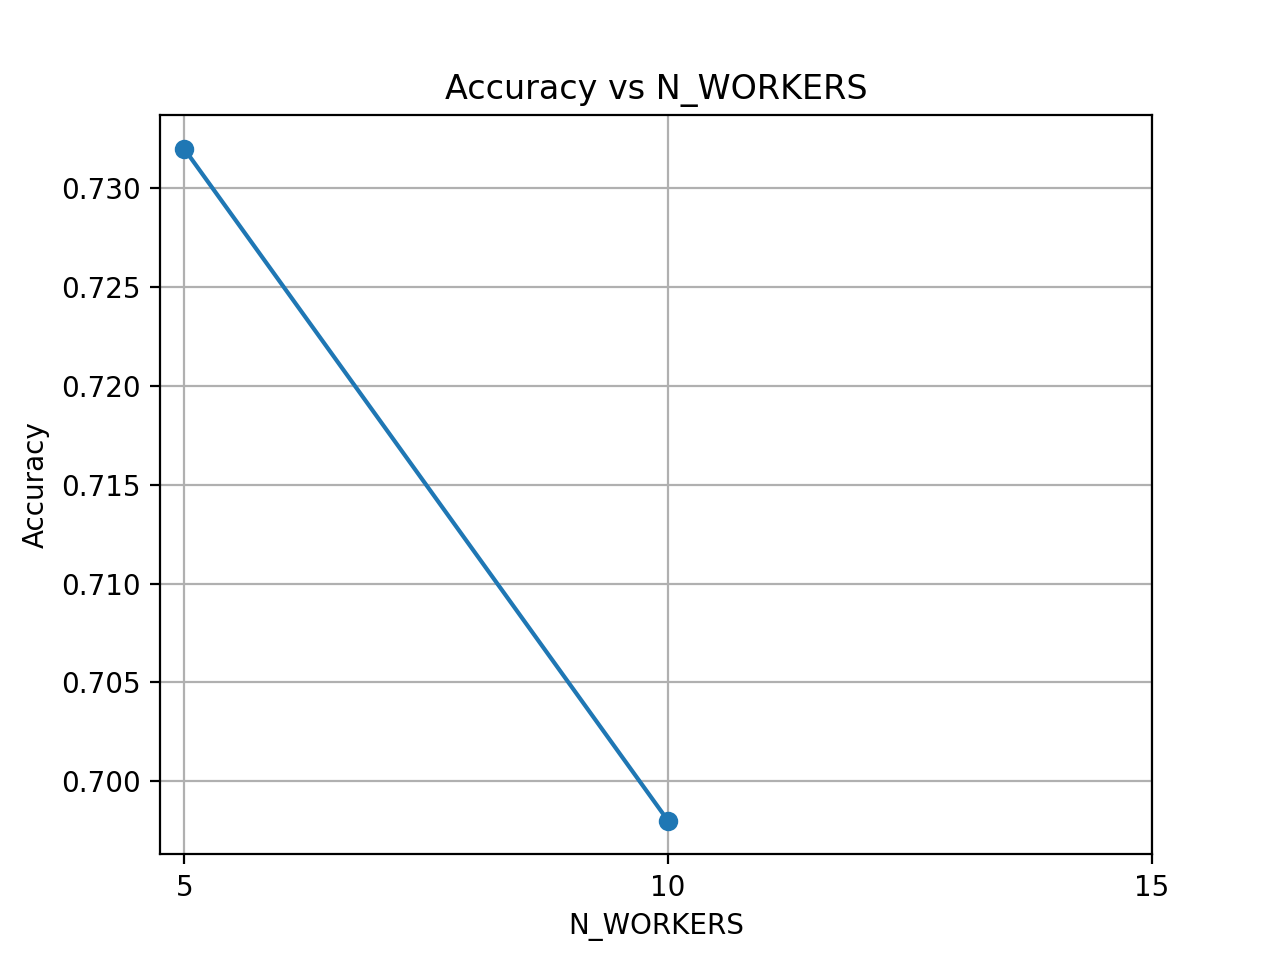
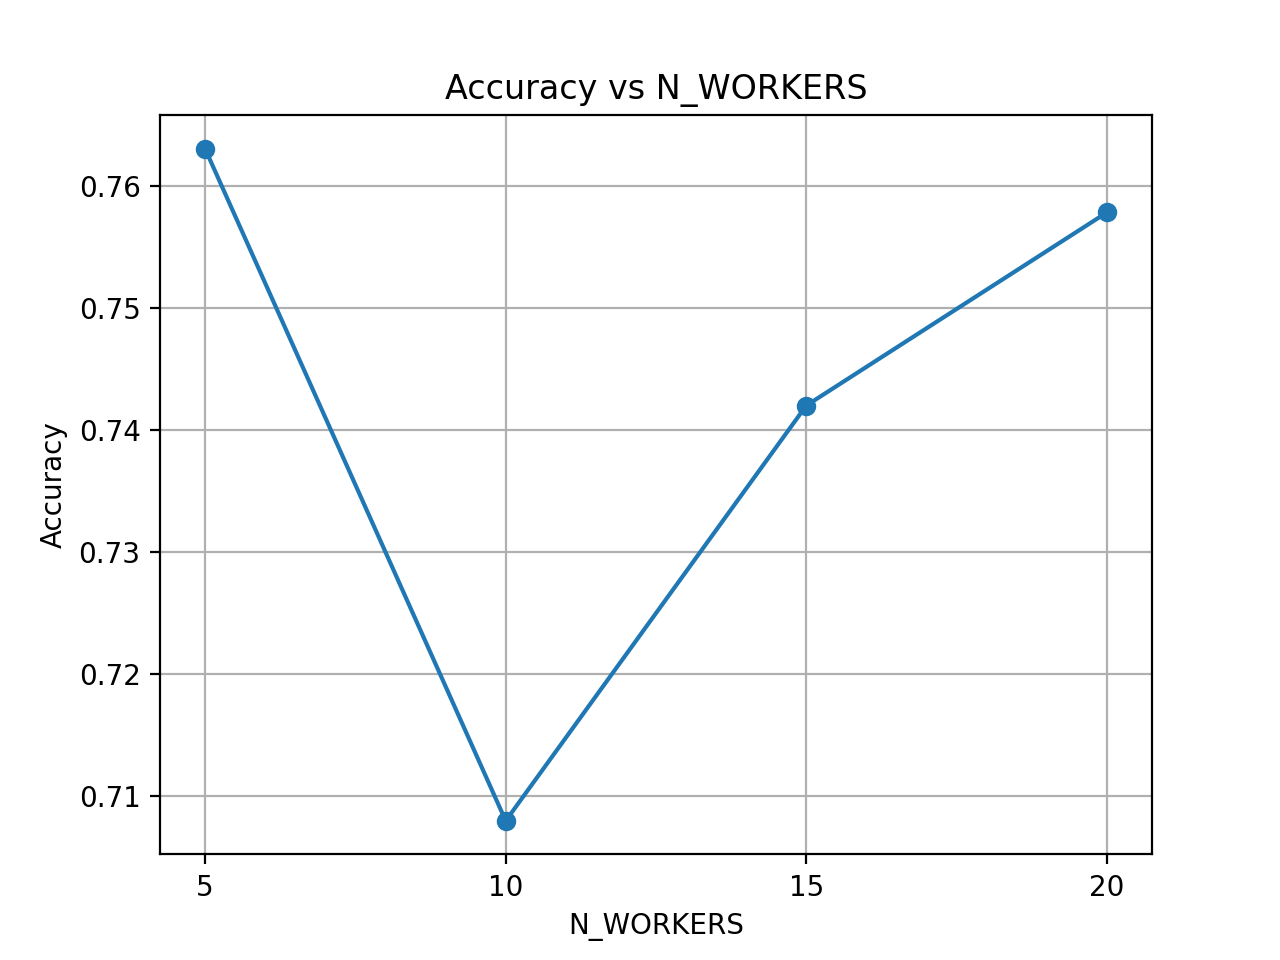
VV

diff --git a/java/src/main/java/pso/CoordinatorProcessor.java b/java/src/main/java/pso/CoordinatorProcessor.java
@@ -33,7 +33,8 @@ import java.time.Duration;
 
 import utils.*;
 import state.*;
-import message.*; 
+import message.data_message.*; 
+import message.weights_message.*; 
 
 public class CoordinatorProcessor implements Processor<String, WeightsMessage, String, WeightsMessage> {
     private ProcessorContext<String, WeightsMessage> context;

diff --git a/java/src/main/java/pso/WorkerTransformer.java b/java/src/main/java/pso/WorkerTransformer.java
@@ -22,7 +22,8 @@ import java.util.Arrays;
 
 import utils.*;
 import state.*;
-import message.*; 
+import message.data_message.*; 
+import message.weights_message.*; 
 
 public class WorkerTransformer implements Transformer<String, DataMessage, KeyValue<String, WeightsMessage>> {
 

diff --git a/java/src/main/java/pso/Coordinator.java b/java/src/main/java/pso/Coordinator.java
@@ -34,7 +34,8 @@ import org.deeplearning4j.nn.multilayer.MultiLayerNetwork;
 
 import utils.*; 
 import state.*; 
-import message.*; 
+import message.data_message.*; 
+import message.weights_message.*; 
 
 public class Coordinator implements Runnable {
 

diff --git a/run_experiments.py b/run_experiments.py
@@ -7,9 +7,9 @@ from pathlib import Path
 
 import matplotlib.pyplot as plt
 
-# WORKERS_LIST = [5, 10, 15, 20]
+WORKERS_LIST = [5, 10, 15, 20]
 # WORKERS_LIST = [5, 10, 15]
-WORKERS_LIST = [15]
+# WORKERS_LIST = [15]
 
 RUN_SCRIPT = "./run_streams.sh"
 

diff --git a/java/src/main/java/pso/Worker.java b/java/src/main/java/pso/Worker.java
@@ -26,7 +26,8 @@ import java.util.concurrent.CountDownLatch;
 
 import utils.*;
 import state.*;
-import message.*; 
+import message.data_message.*; 
+import message.weights_message.*; 
 
 public class Worker implements Runnable {
 

diff --git a/java/src/main/java/message/weights_message/WeightsMessage.java b/java/src/main/java/message/weights_message/WeightsMessage.java
@@ -1,8 +1,5 @@
 
-package message;
-
-
-import java.util.List;
+package message.weights_message;
 
 public class WeightsMessage {
     public int idWorker;

diff --git a/java/src/main/java/message/data_message/DataMessage.java b/java/src/main/java/message/data_message/DataMessage.java
@@ -1,7 +1,6 @@
 
-package message;
+package message.data_message;
 
-import java.util.List;
 
 public class DataMessage {
     public int sampleIndex;

diff --git a/java/src/main/java/message/weights_message/WeightsMessageDeserializer.java b/java/src/main/java/message/weights_message/WeightsMessageDeserializer.java
@@ -1,4 +1,4 @@
-package message;
+package message.weights_message;
 
 import org.apache.kafka.common.serialization.Deserializer;
 

diff --git a/java/src/main/java/message/weights_message/WeightsMessageSerializer.java b/java/src/main/java/message/weights_message/WeightsMessageSerializer.java
@@ -1,4 +1,4 @@
-package message;
+package message.weights_message;
 
 import org.apache.kafka.common.serialization.Serializer;
 

diff --git a/java/src/main/java/message/data_message/DataMessageDeserializer.java b/java/src/main/java/message/data_message/DataMessageDeserializer.java
@@ -1,4 +1,4 @@
-package message;
+package message.data_message;
 
 import org.apache.kafka.common.serialization.Deserializer;
 

diff --git a/java/src/main/java/message/data_message/DataMessageSerializer.java b/java/src/main/java/message/data_message/DataMessageSerializer.java
@@ -1,4 +1,4 @@
-package message;
+package message.data_message;
 
 import org.apache.kafka.common.serialization.Serializer;
 

diff --git a/java/src/main/java/message/weights_message/WeightsMessageSerde.java b/java/src/main/java/message/weights_message/WeightsMessageSerde.java
@@ -1,4 +1,4 @@
-package message;
+package message.weights_message;
 
 import org.apache.kafka.common.serialization.Serdes;
 
